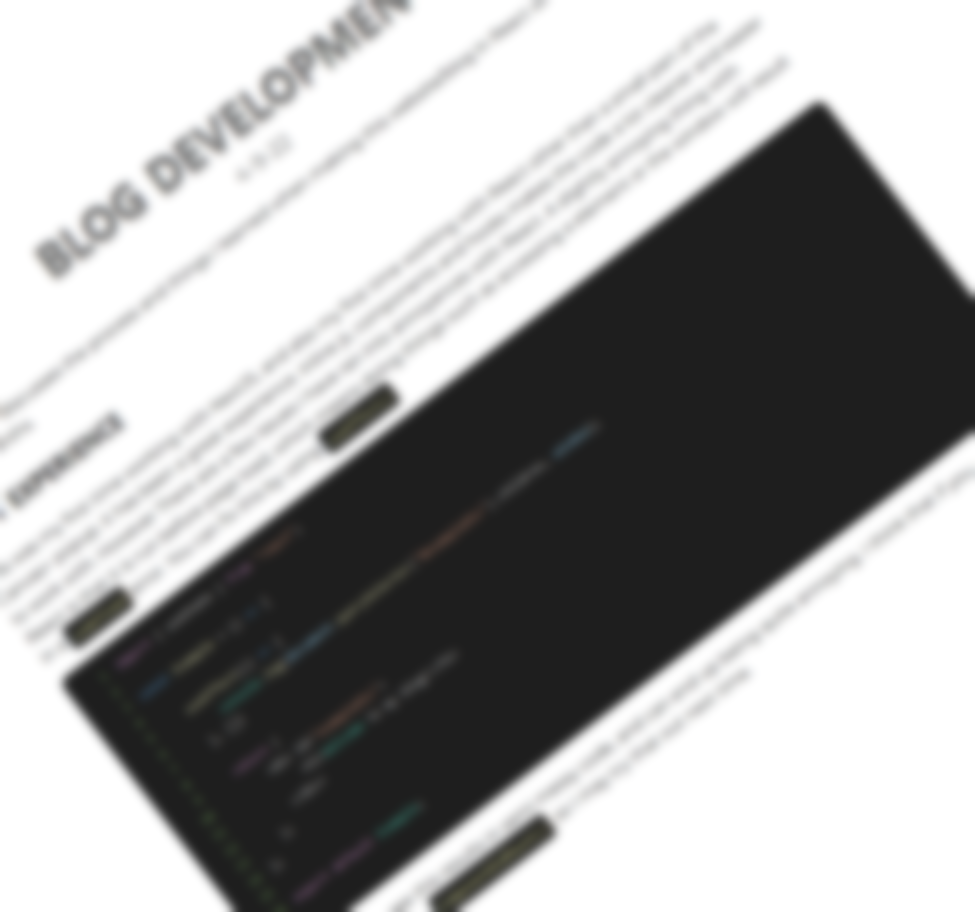
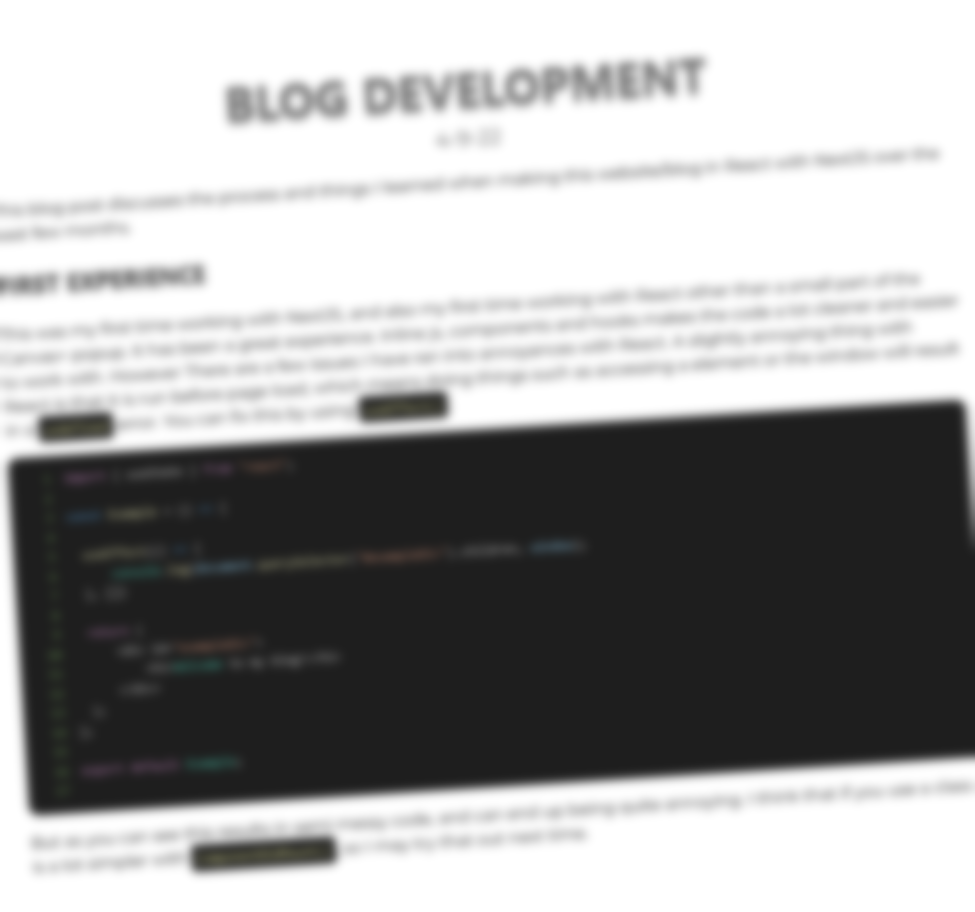
Fix Bugs
Fixes:
  Incompatible font
  ios overscroll
  Incorrect rotation on image
  lots of typos

diff --git a/pages/index.js b/pages/index.js
@@ -30,10 +30,10 @@ const Home = () => {
 			<Header/>
 			<TopDivider className={ styles.divider } viewBox="0 0 11 1" width="100%" height="100%"/>
 			<div id={ styles.contentContainer }>
-				<Text title="A little about me" text="Hi, I'm John. I'm a 7th grader that is interested in tech, software development, internet privacy and crypto. I am currently mostly interested in frontend web development and cryptocurrency's/decentralization, but plan on expanding my skill set. I also enjoy playing violin in orchestra, tennis and math (especially algebra). You can find all of my current projects and what Im doing <a href='https://github.com/J-The-Dev'>here</a>."/>
+				<Text title="A little about me" text="Hi, I'm John. I'm a 7th grader that is interested in tech, software development, internet privacy, and crypto. I am currently most interested in front-end web development and cryptocurrencies/decentralization but plan on expanding my skill set. I also enjoy playing violin with orchestra, tennis, and math (especially algebra). You can find all of my current projects and what I'm doing <a href='https://github.com/J-The-Dev'>here</a>."/>
 				<Image image={ Hobbies }/>
 				<Image image={ Projects }/>
-				<Text title="Projects" text="My projects include: Canvas+ a chrome extension for the school website canvas that I made with <a href='https://github.com/adriancasares'>Adrian Casares</a> that adds features such as dark mode, search, and a lot more. Crypto Prices another chrome extension that makes it easy to quickly check crypto prices, its features include dark mode, useful links, and even a 7-day graph. More projects coming soon..."/>
+				<Text title="Projects" text="My projects include: Canvas+ a chrome extension for the school website canvas that I made with <a href='https://github.com/adriancasares'>Adrian Casares</a> that adds features such as dark mode, search, and a lot more. Crypto Prices is another chrome extension that makes it easy to quickly check crypto prices, its features include dark mode, useful links, and even a 7-day graph. More projects coming soon..."/>
 			</div>
 			<BottomDivider className={ styles.divider } style={{ background: "linear-gradient(white 90%, #313131)" }} viewBox="0 0 11 1" width="100%" height="100%"/>
 			<Footer/>

diff --git a/styles/global.css b/styles/global.css
@@ -1,4 +1,4 @@
-@import url('https://fonts.googleapis.com/css2?family=Montserrat&family=Assistant&display=swap');
+@import url("https://fonts.googleapis.com/css2?family=Montserrat&family=Assistant&family=Open+Sans&family=Open+Sans:wght@700&display=swap");
 
 body, html, #__next {
 	margin: 0;
@@ -7,6 +7,7 @@ body, html, #__next {
 	font-weight: 100;
 	scrollbar-width: none;
 	overflow: hidden auto !important;
+	overscroll-behavior: none;
 }
 
 ::-webkit-scrollbar {

diff --git a/components/styles/overlay.module.css b/components/styles/overlay.module.css
@@ -50,7 +50,7 @@
 	text-transform: uppercase;
 	z-index: 1;
 	transition: transform 0.5s ease-in-out;
-	font-family: Segoe UI;
+	font-family: "Open Sans";
 }
 
 .subtitle {
@@ -61,7 +61,7 @@
 	text-shadow: 0 2px 0px rgb(71, 71, 71);
 	z-index: 1;
 	transition: transform 0.5s ease-in-out;
-	font-family: Segoe UI;
+	font-family: "Open Sans";
 }
 
 .image:hover > .subtitle, .image:hover > .title {

diff --git a/components/styles/header.module.css b/components/styles/header.module.css
@@ -26,8 +26,8 @@
 	color: white;
 	font-weight: 100;
 	font-size: 2.3em;
-	margin: 0 0 25vh 0;
-	font-family: Segoe UI;
+	font-family: "Open Sans";
+	transform: translateY(-13vh);
 }
 
 #logo {

diff --git a/styles/projects.module.css b/styles/projects.module.css
@@ -11,7 +11,7 @@
 	color: white;
 	text-shadow: 0 5px 0 #bbb;
 	padding-bottom: 10px;
-	font-family: Segoe UI;
+	font-family: "Open Sans";
 	letter-spacing: -0.03em;
 }
 

diff --git a/styles/blog.module.css b/styles/blog.module.css
@@ -10,7 +10,7 @@
 	color: white;
 	text-shadow: 0 5px 0 #bbb;
 	padding-bottom: 10px;
-	font-family: Segoe UI;
+	font-family: "Open Sans";
 }
 
 #postContainer {

diff --git a/assets/markdown/blogdevelopement.md b/assets/markdown/blogdevelopement.md
@@ -8,7 +8,7 @@ This blog post discusses the process and things I learned when making this websi
 
 ## First Experience
 
-This was my first time working with NextJS, and also my first time working with React other than a small part of the Canvas+ popup. It has been a great experience. Inline js, components and hooks makes the code a lot cleaner and easier to work with. However There are a few issues I have ran into annoyances with React. A slightly annoying thing with React is that it is run before page load, which means doing things such as accessing a element or the window will result in a `undefined` error. You can fix this by using `useEffect()`
+This was my first time working with NextJS, and also my first time working with React other than a small part of the Canvas+ popup. It has been a great experience. Inline js, components, and hooks make the code a lot cleaner and easier to work with. However, there are a few issues I have run into annoyances with React. A slightly annoying thing with React is that it is run before page load, which means doing things such as accessing an element or the window will result in an `undefined` error. You can fix this by using `useEffect()`
 ```js
 import { useState } from "react";
 
@@ -33,9 +33,9 @@ But as you can see this results in semi messy code, and can end up being quite a
 
 - ### Design Before Develope
 
-	The biggest mistake that I made when making the blog was not designing before developing. Because of this I ended up spending way too long redo each and ever component until I was satisfied. I probably ended up completely redoing the homepage 3-4 times because of this. However after learning this the other pages were finished very quickly.
+	The biggest mistake that I made when making the blog was not designing before developing. Because of this, I ended up spending way too long redoing each component until I was satisfied. I probably ended up completely redoing the homepage 3-4 times because of this. However, after learning this the other pages were finished very quickly.
 
-	The software I ended up using to create templates is [Figma](https://figma.com), which I must say for being completely free works extremely well for both prototyping and svg design.
+	The software I ended up using to create templates is [Figma](https://figma.com), which I must say for being completely free works extremely well for both prototyping and SVG design.
 
 - ### Document progress
 
@@ -43,4 +43,4 @@ But as you can see this results in semi messy code, and can end up being quite a
 
 ## Conclusion 
 
-Overall I did like React and NextJS a lot, and will probably use them in the future. I did find most of the process semi boring due to the lack of executable code, but had a good time none the less. I plan on doing mid length posts similar to this one, hopefully at least once a month (we'll see how that goes).
+Overall I did like React and NextJS a lot, and will probably use them in the future. I did find most of the process semi boring due to the lack of executable code but had a good time none the less. I plan on doing mid-length posts similar to this one, hopefully at least once a month (we'll see how that goes).
